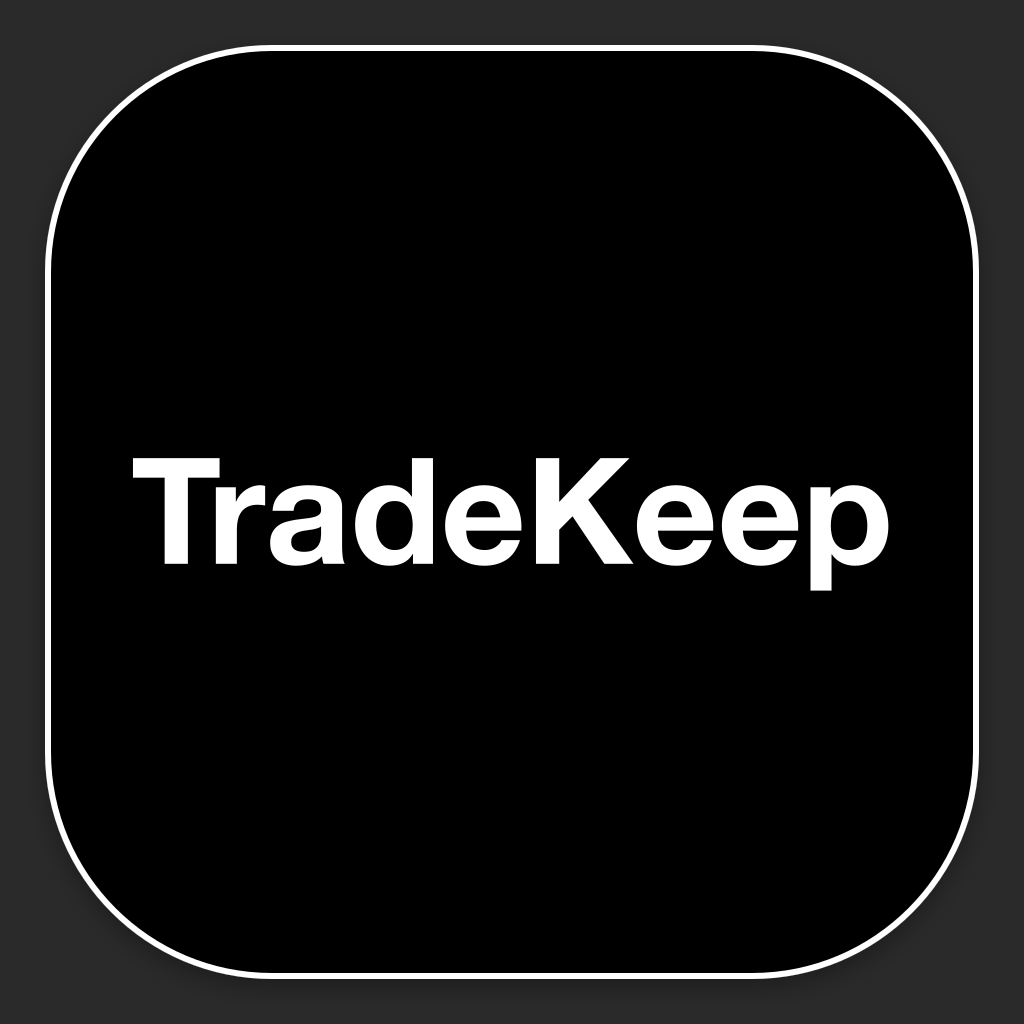
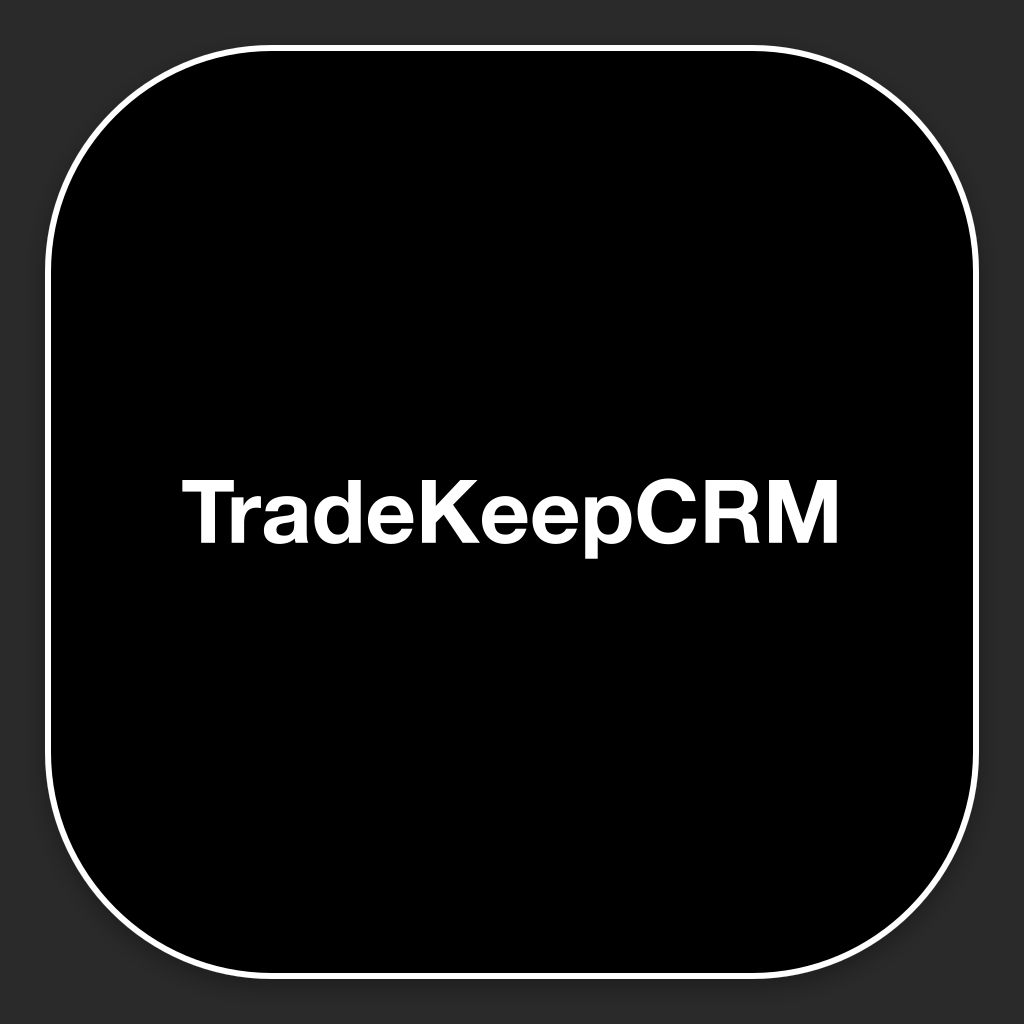
Rebrand to TradeKeepCRM and add GitHub Pages support docs.
Publish static support and privacy pages under docs/ with correct WayneBuckley1980 Pages URLs for App Store Connect.

Changed region(s): [[0.125, 0.4375, 0.875, 0.5938]]

diff --git a/docs/privacy.html b/docs/privacy.html
@@ -1,0 +1,95 @@
+<!DOCTYPE html>
+<html lang="en-GB">
+<head>
+  <meta charset="utf-8" />
+  <meta name="viewport" content="width=device-width, initial-scale=1" />
+  <title>TradeKeepCRM — Privacy Policy</title>
+  <meta name="description" content="Privacy Policy for TradeKeepCRM." />
+  <style>
+    :root {
+      --bg: #2a2a2a;
+      --surface: #363636;
+      --text: #ffffff;
+      --muted: #aeaeb2;
+      --border: rgba(255, 255, 255, 0.18);
+    }
+    * { box-sizing: border-box; }
+    body {
+      margin: 0;
+      font-family: -apple-system, BlinkMacSystemFont, "Segoe UI", Helvetica, Arial, sans-serif;
+      background: var(--bg);
+      color: var(--text);
+      line-height: 1.65;
+    }
+    main {
+      max-width: 720px;
+      margin: 0 auto;
+      padding: 48px 24px 64px;
+    }
+    h1 { font-size: 2rem; margin: 0 0 8px; }
+    .updated { color: var(--muted); margin: 0 0 32px; }
+    h2 { font-size: 1.125rem; margin: 32px 0 12px; }
+    p, li { color: #d1d1d6; }
+    ul { padding-left: 1.25rem; }
+    a { color: #fff; }
+    .back { display: inline-block; margin-bottom: 24px; color: var(--muted); text-decoration: none; }
+    .back:hover { color: #fff; }
+  </style>
+</head>
+<body>
+  <main>
+    <a class="back" href="index.html">← Support</a>
+    <h1>Privacy Policy</h1>
+    <p class="updated">Last updated: June 2026</p>
+
+    <p>TradeKeepCRM ("we", "the app") helps solo service professionals manage clients, jobs, quotes, invoices, and follow-up reminders.</p>
+
+    <h2>Data we collect</h2>
+    <ul>
+      <li><strong>Account:</strong> email address (if you sign in with email) or Apple user identifier (Sign in with Apple)</li>
+      <li><strong>Client data:</strong> names, phone numbers, email addresses, addresses, notes, job/quote/invoice details, and payment amounts you enter</li>
+      <li><strong>Files you upload:</strong> photos, documents, and voice notes attached to clients or jobs</li>
+      <li><strong>Subscription status:</strong> managed via Apple In-App Purchase and RevenueCat</li>
+    </ul>
+
+    <h2>How we use data</h2>
+    <ul>
+      <li>Sync your business data across your devices via Supabase</li>
+      <li>Schedule local follow-up reminders on your device</li>
+      <li>Manage Pro subscription entitlements</li>
+      <li>Store attachments you choose to upload (photos, PDFs, voice notes)</li>
+    </ul>
+
+    <h2>Data storage &amp; security</h2>
+    <ul>
+      <li>Client records are stored in Supabase (PostgreSQL) with row-level security — only you can access your data</li>
+      <li>Auth tokens are stored securely on-device (Expo SecureStore)</li>
+      <li>Follow-up reminders are scheduled locally on your device</li>
+      <li>Files are stored in private cloud storage linked to your account</li>
+    </ul>
+
+    <h2>Data we do not collect</h2>
+    <ul>
+      <li>We do not sell your data</li>
+      <li>We do not use third-party advertising</li>
+      <li>We do not send SMS or email to your clients on your behalf</li>
+    </ul>
+
+    <h2>Third parties</h2>
+    <ul>
+      <li><strong>Supabase</strong> — authentication, database, and file storage</li>
+      <li><strong>Apple</strong> — Sign in with Apple and In-App Purchases</li>
+      <li><strong>RevenueCat</strong> — subscription receipt validation</li>
+    </ul>
+
+    <h2>Your rights</h2>
+    <p>You may delete clients and records individually within the app, export your data from More → Export data, or contact us to request deletion of your account and all associated data.</p>
+
+    <h2>Contact</h2>
+    <p><a href="mailto:[email redacted]">[email redacted]</a></p>
+
+    <h2>Terms</h2>
+    <p>This app uses Apple's standard EULA: <a href="https://www.apple.com/legal/internet-services/itunes/dev/stdeula/">Apple Media Services Terms and Conditions</a></p>
+  </main>
+</body>
+</html>

diff --git a/docs/index.html b/docs/index.html
@@ -1,0 +1,88 @@
+<!DOCTYPE html>
+<html lang="en-GB">
+<head>
+  <meta charset="utf-8" />
+  <meta name="viewport" content="width=device-width, initial-scale=1" />
+  <title>TradeKeepCRM — Support</title>
+  <meta name="description" content="Support for TradeKeepCRM — the lightweight CRM for solo tradespeople." />
+  <style>
+    :root {
+      --bg: #2a2a2a;
+      --surface: #363636;
+      --text: #ffffff;
+      --muted: #aeaeb2;
+      --border: rgba(255, 255, 255, 0.18);
+      --accent: #ffffff;
+    }
+    * { box-sizing: border-box; }
+    body {
+      margin: 0;
+      font-family: -apple-system, BlinkMacSystemFont, "Segoe UI", Helvetica, Arial, sans-serif;
+      background: var(--bg);
+      color: var(--text);
+      line-height: 1.6;
+    }
+    main {
+      max-width: 640px;
+      margin: 0 auto;
+      padding: 48px 24px 64px;
+    }
+    h1 { font-size: 2rem; margin: 0 0 8px; letter-spacing: -0.02em; }
+    .tagline { color: var(--muted); margin: 0 0 32px; }
+    .card {
+      background: var(--surface);
+      border: 1px solid var(--border);
+      border-radius: 12px;
+      padding: 24px;
+      margin-bottom: 16px;
+    }
+    h2 { font-size: 1rem; text-transform: uppercase; letter-spacing: 0.08em; color: var(--muted); margin: 0 0 12px; }
+    a { color: var(--text); font-weight: 600; }
+    a.button {
+      display: inline-block;
+      background: var(--accent);
+      color: #2a2a2a;
+      text-decoration: none;
+      padding: 12px 20px;
+      border-radius: 10px;
+      margin-top: 8px;
+    }
+    ul { padding-left: 1.2rem; margin: 0; }
+    li { margin-bottom: 8px; color: var(--muted); }
+    footer { margin-top: 40px; font-size: 0.875rem; color: var(--muted); }
+  </style>
+</head>
+<body>
+  <main>
+    <h1>TradeKeepCRM</h1>
+    <p class="tagline">Lightweight CRM for solo tradespeople and service professionals.</p>
+
+    <div class="card">
+      <h2>Contact support</h2>
+      <p>Questions about your account, subscriptions, or how to use the app?</p>
+      <p><a href="mailto:[email redacted]">[email redacted]</a></p>
+      <a class="button" href="mailto:[email redacted]?subject=TradeKeepCRM%20Support">Email support</a>
+    </div>
+
+    <div class="card">
+      <h2>Common topics</h2>
+      <ul>
+        <li><strong>Sign in</strong> — Use Sign in with Apple or the email magic link sent to your inbox.</li>
+        <li><strong>Pro subscription</strong> — Managed through your Apple ID. Restore purchases in More → Restore purchases.</li>
+        <li><strong>Export data</strong> — More → Export data downloads a JSON file of your clients and records.</li>
+        <li><strong>Delete data</strong> — Delete clients individually in the app, or email us to request full account deletion.</li>
+      </ul>
+    </div>
+
+    <div class="card">
+      <h2>Legal</h2>
+      <p><a href="privacy.html">Privacy Policy</a></p>
+      <p style="color: var(--muted); margin-bottom: 0;">Terms: <a href="https://www.apple.com/legal/internet-services/itunes/dev/stdeula/">Apple Standard EULA</a></p>
+    </div>
+
+    <footer>
+      © 2026 TradeKeepCRM · <a href="privacy.html">Privacy</a>
+    </footer>
+  </main>
+</body>
+</html>

diff --git a/app/onboarding/index.tsx b/app/onboarding/index.tsx
@@ -41,14 +41,14 @@ export default function OnboardingScreen() {
     return (
       <View style={styles.center}>
         <ActivityIndicator color={colors.textPrimary} />
-        <Text style={styles.subtitle}>Setting up TradeKeep…</Text>
+        <Text style={styles.subtitle}>Setting up TradeKeepCRM…</Text>
       </View>
     );
   }
 
   return (
     <ScrollView style={styles.container} contentContainerStyle={styles.content}>
-      <Text style={styles.title}>Welcome to TradeKeep</Text>
+      <Text style={styles.title}>Welcome to TradeKeepCRM</Text>
       <Text style={styles.subtitle}>
         {step === 1 ? 'What best describes your business?' : 'How do you usually work?'}
       </Text>

diff --git a/app/(auth)/sign-in.tsx b/app/(auth)/sign-in.tsx
@@ -56,7 +56,7 @@ export default function SignInScreen() {
       behavior={Platform.OS === 'ios' ? 'padding' : undefined}
     >
       <View style={styles.content}>
-        <Text style={styles.brand}>TradeKeep</Text>
+        <Text style={styles.brand}>TradeKeepCRM</Text>
         <Text style={styles.tagline}>Keep what your clients like. Know when to chase them.</Text>
 
         {!isSupabaseConfigured ? (

diff --git a/app/(tabs)/_layout.tsx b/app/(tabs)/_layout.tsx
@@ -19,7 +19,7 @@ export default function TabLayout() {
           tabBarInactiveTintColor: colors.textMuted,
         }}
       >
-        <Tabs.Screen name="home" options={{ title: 'Home', headerTitle: 'TradeKeep' }} />
+        <Tabs.Screen name="home" options={{ title: 'Home', headerTitle: 'TradeKeepCRM' }} />
         <Tabs.Screen name="clients" options={{ title: 'Clients' }} />
         <Tabs.Screen name="jobs" options={{ title: 'Jobs' }} />
         <Tabs.Screen name="money" options={{ title: 'Money' }} />

diff --git a/app/(tabs)/more/index.tsx b/app/(tabs)/more/index.tsx
@@ -157,7 +157,7 @@ export default function MoreScreen() {
       <Pressable style={styles.row} onPress={handleRestore}><Text style={styles.rowText}>Restore purchases</Text></Pressable>
       <Pressable style={styles.row} onPress={handleSignOut}><Text style={[styles.rowText, styles.destructive]}>Sign out</Text></Pressable>
 
-      <Text style={styles.footer}>TradeKeep v2.1</Text>
+      <Text style={styles.footer}>TradeKeepCRM v2.2</Text>
     </KeyboardSafeScroll>
   );
 }

diff --git a/docs/DEPLOY.md b/docs/DEPLOY.md
@@ -1,0 +1,27 @@
+# Publishing support & privacy URLs
+
+These pages live in this folder and are ready for **GitHub Pages**.
+
+## Expected URLs (after deploy)
+
+| Purpose | URL |
+|---------|-----|
+| **Support URL** (App Store Connect) | `https://waynebuckley1980.github.io/tradekeep/` |
+| **Privacy Policy URL** | `https://waynebuckley1980.github.io/tradekeep/privacy.html` |
+
+Repo: **WayneBuckley1980/tradekeep** on GitHub Pages from the `/docs` folder.
+
+## One-time setup
+
+1. Create a GitHub repo named `tradekeep` (or push this project to GitHub).
+2. In the repo on GitHub: **Settings → Pages**
+3. Source: **Deploy from a branch**
+4. Branch: **main** → folder **/docs**
+5. Save — the site is live in 1–2 minutes.
+
+## App Store Connect
+
+Paste the URLs above into:
+
+- **App Information → Support URL**
+- **App Privacy → Privacy Policy URL** (or App Information, depending on ASC layout)

diff --git a/README.md b/README.md
@@ -1,6 +1,6 @@
-# TradeKeep
+# TradeKeepCRM
 
-iOS client tracker for solo tradespersons — barbers, cleaners, handymen, and more.
+iOS CRM for solo tradespersons — barbers, cleaners, handymen, and more.
 
 **Tagline:** Keep what your clients like. Know when to chase them.
 
@@ -71,8 +71,16 @@ Configure `eas.json` and replace `extra.eas.projectId` in `app.json` after `eas 
 node scripts/generate-assets.mjs
 ```
 
-Generates the pure-black app icon and graphite splash with **TradeKeep** wordmark.
+Generates the pure-black app icon and graphite splash with **TradeKeepCRM** wordmark.
 
-## Privacy
+## Privacy & support
 
-See [docs/PRIVACY.md](docs/PRIVACY.md)
+- Support: [docs/index.html](docs/index.html) → deploy via [docs/DEPLOY.md](docs/DEPLOY.md)
+- Privacy policy: [docs/privacy.html](docs/privacy.html)
+
+After GitHub Pages deploy:
+
+- **Support URL:** `https://waynebuckley1980.github.io/tradekeep/`
+- **Privacy URL:** `https://waynebuckley1980.github.io/tradekeep/privacy.html`
+
+See [docs/PRIVACY.md](docs/PRIVACY.md) for the markdown source.

diff --git a/docs/PRIVACY.md b/docs/PRIVACY.md
@@ -1,8 +1,8 @@
-# Privacy Policy — TradeKeep
+# Privacy Policy — TradeKeepCRM
 
 **Last updated:** June 2026
 
-TradeKeep ("we", "the app") helps solo service professionals manage client information and follow-up reminders.
+TradeKeepCRM ("we", "the app") helps solo service professionals manage client information and follow-up reminders.
 
 ## Data we collect
 
@@ -41,7 +41,12 @@ You may delete your account and all client data by signing out and contacting su
 
 ## Contact
 
-Add your support email before App Store submission.
+Email: [[email redacted]](mailto:[email redacted])
+
+Public pages (after GitHub Pages deploy):
+
+- Support: https://waynebuckley1980.github.io/tradekeep/
+- Privacy: https://waynebuckley1980.github.io/tradekeep/privacy.html
 
 ## Terms
 